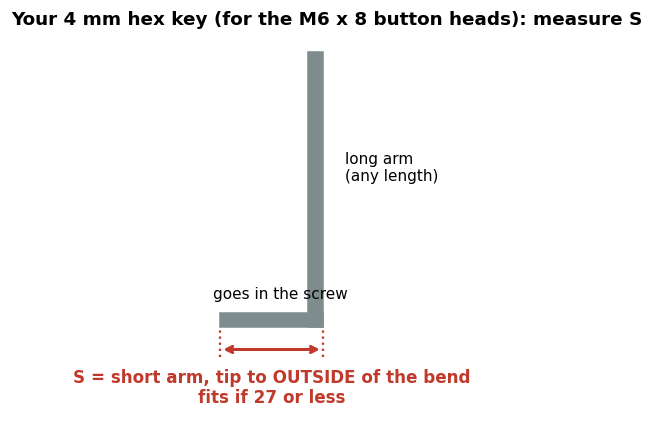
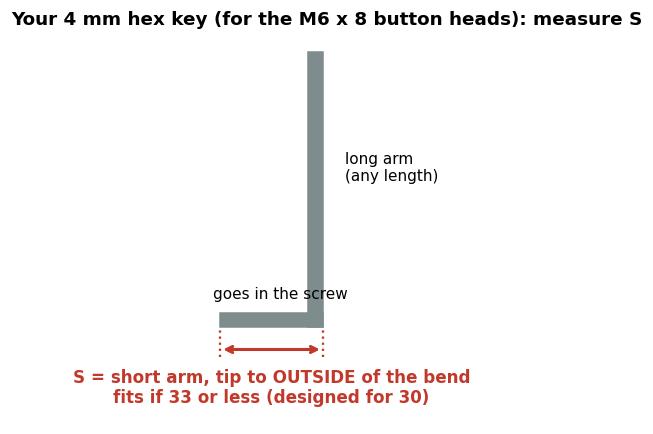
CSB-B draft: tool window takes a 30 mm L-key short arm

Changed region(s): [[0.1531, 0.8986, 0.6738, 0.9286]]

diff --git a/HANDOFF.md b/HANDOFF.md
@@ -8,7 +8,7 @@ From the CSB-A workflow log. `tools/release_part.py` gained `--posts U:SIDE` (re
 
 ## 2026-11-05 CSB-A cable span bracket released for printing (Claude)
 First part made with the new habits (device card, drafts until printing, fit report by ID), logged in `work/workbench/Workflow_Log.md`. [README](outputs/Cable_Span_Bracket_CSB-A_2026-11-05/README.md), source `work/cable-span-bracket/span_bracket.scad`, post card `docs/devices/lab-rax-4u-post.md`. A 1U cable trough, front to rear post on one side, one M6 x 8 into each post's middle-hole insert. The same part goes on the left turned 180 degrees. Soft style, floor slots, 7 weave fingers, a drop-out near each end. Release: 0 FAIL, 0 WARN, posts gap 0.22, keep-out clear. Viewer https://claude.ai/artifact/9crGzhJh6CR3T3WobCN58G. Brian measured C = 16; A, B, D, E, F come from the source model on his direction (UNKNOWN as measurements). Can't share a U on the same side with a post-rail bracket (same front middle hole).
-**Printed (Brian):** CSB-A fits, but no driver reaches the screws. **CSB-B draft** in `work/cable-span-bracket/span_bracket.scad` (viewer only, https://claude.ai/artifact/GRDDXmcyw5wTXtzUokndDf): the inner wall is cut to 6 tall between each pad and its drop-out; a 4 mm L-key clears -30 to +30 degrees in the model. Asked Brian for his key's short arm (fits if 27 or less). **Next step:** his answer, then release CSB-B when he says he is printing. Inserts, rocking, strength and capacity UNKNOWN.
+**Printed (Brian):** CSB-A fits, but no driver reaches the screws. **CSB-B draft** in `work/cable-span-bracket/span_bracket.scad` (viewer only, https://claude.ai/artifact/GRDDXmcyw5wTXtzUokndDf): the inner wall is cut to 6 tall between each pad and its drop-out; a 4 mm L-key with a 30 mm short arm (Brian asked for 30; up to about 33 fits) clears -30 to +30 degrees in the model; drop-outs moved to Y 44..62 for it. **Next step:** his answer, then release CSB-B when he says he is printing. Inserts, rocking, strength and capacity UNKNOWN.
 
 ## 2026-11-05 Workflow: measure first, draft until printing, report by ID (Claude)
 Brian chose three habits, now in `.claude/skills/new-part/SKILL.md`: a device card in `docs/devices/` with measurements before a new device's first print; drafts get only a viewer page until Brian says he's printing; deliveries end with a short fit report to send back. Not used on a real part yet, and no device cards exist yet. Still open from the same review: compare a new part to its last printed revision, shorter startup reading, graded-gap test prints, a section and gap command. An all-in-one local workbench app has a clickable mockup Brian likes so far: https://claude.ai/artifact/T1cst7qAqkqus6LSnB8ACC (private; nothing connected). No app built; the plan is to try the habits on one or two real parts first. The first is the CSB-A cable span bracket (entry above), tracked in `work/workbench/Workflow_Log.md`.

diff --git a/work/workbench/Workflow_Log.md b/work/workbench/Workflow_Log.md
@@ -22,5 +22,6 @@ Steps: Measure, Draft, Print, Report.
 | 2026-11-05 | Draft | Brian circled the outer wall vents: they had merged into one long slot (my spacing error). Closed; floor slots stay | My windows overlapped and I didn't catch it | Flag cuts that merge into one opening |
 | 2026-11-05 | Print | Brian: "let's print this sucker". Released as CSB-A: ID engraved, release_part.py 0 FAIL / 0 WARN, README and fit report sent. Waiting on his print | The release script can't confirm the ID on the mesh; checked it by hand, and my first check picture missed the text | ID check on the mesh itself |
 | 2026-11-05 | Report | Brian: CSB-A fits, but no driver reaches the screws. CSB-B draft: tool window in the inner wall by each pad; a 4 mm L-key clears at -30 to +30 degrees in the model (CSB-A blocks it). Asked for his key's short arm (diagram) | My "screwdriver room" check was left UNKNOWN at release instead of modelled with a real tool | Tool-swing check as a release step |
+| 2026-11-05 | Draft | Brian asked for 30 mm key clearance: drop-outs moved 4 mm, window now takes up to about 33. Key clear at -30..+30 | My edit commented out the drop-out sizes; caught by OpenSCAD warnings and rerun | Fail the render on any warning |
 
 Totals when the part is done: drafts sent ___, revisions released ___, prints ___, prints that failed ___, measurement requests ___.
